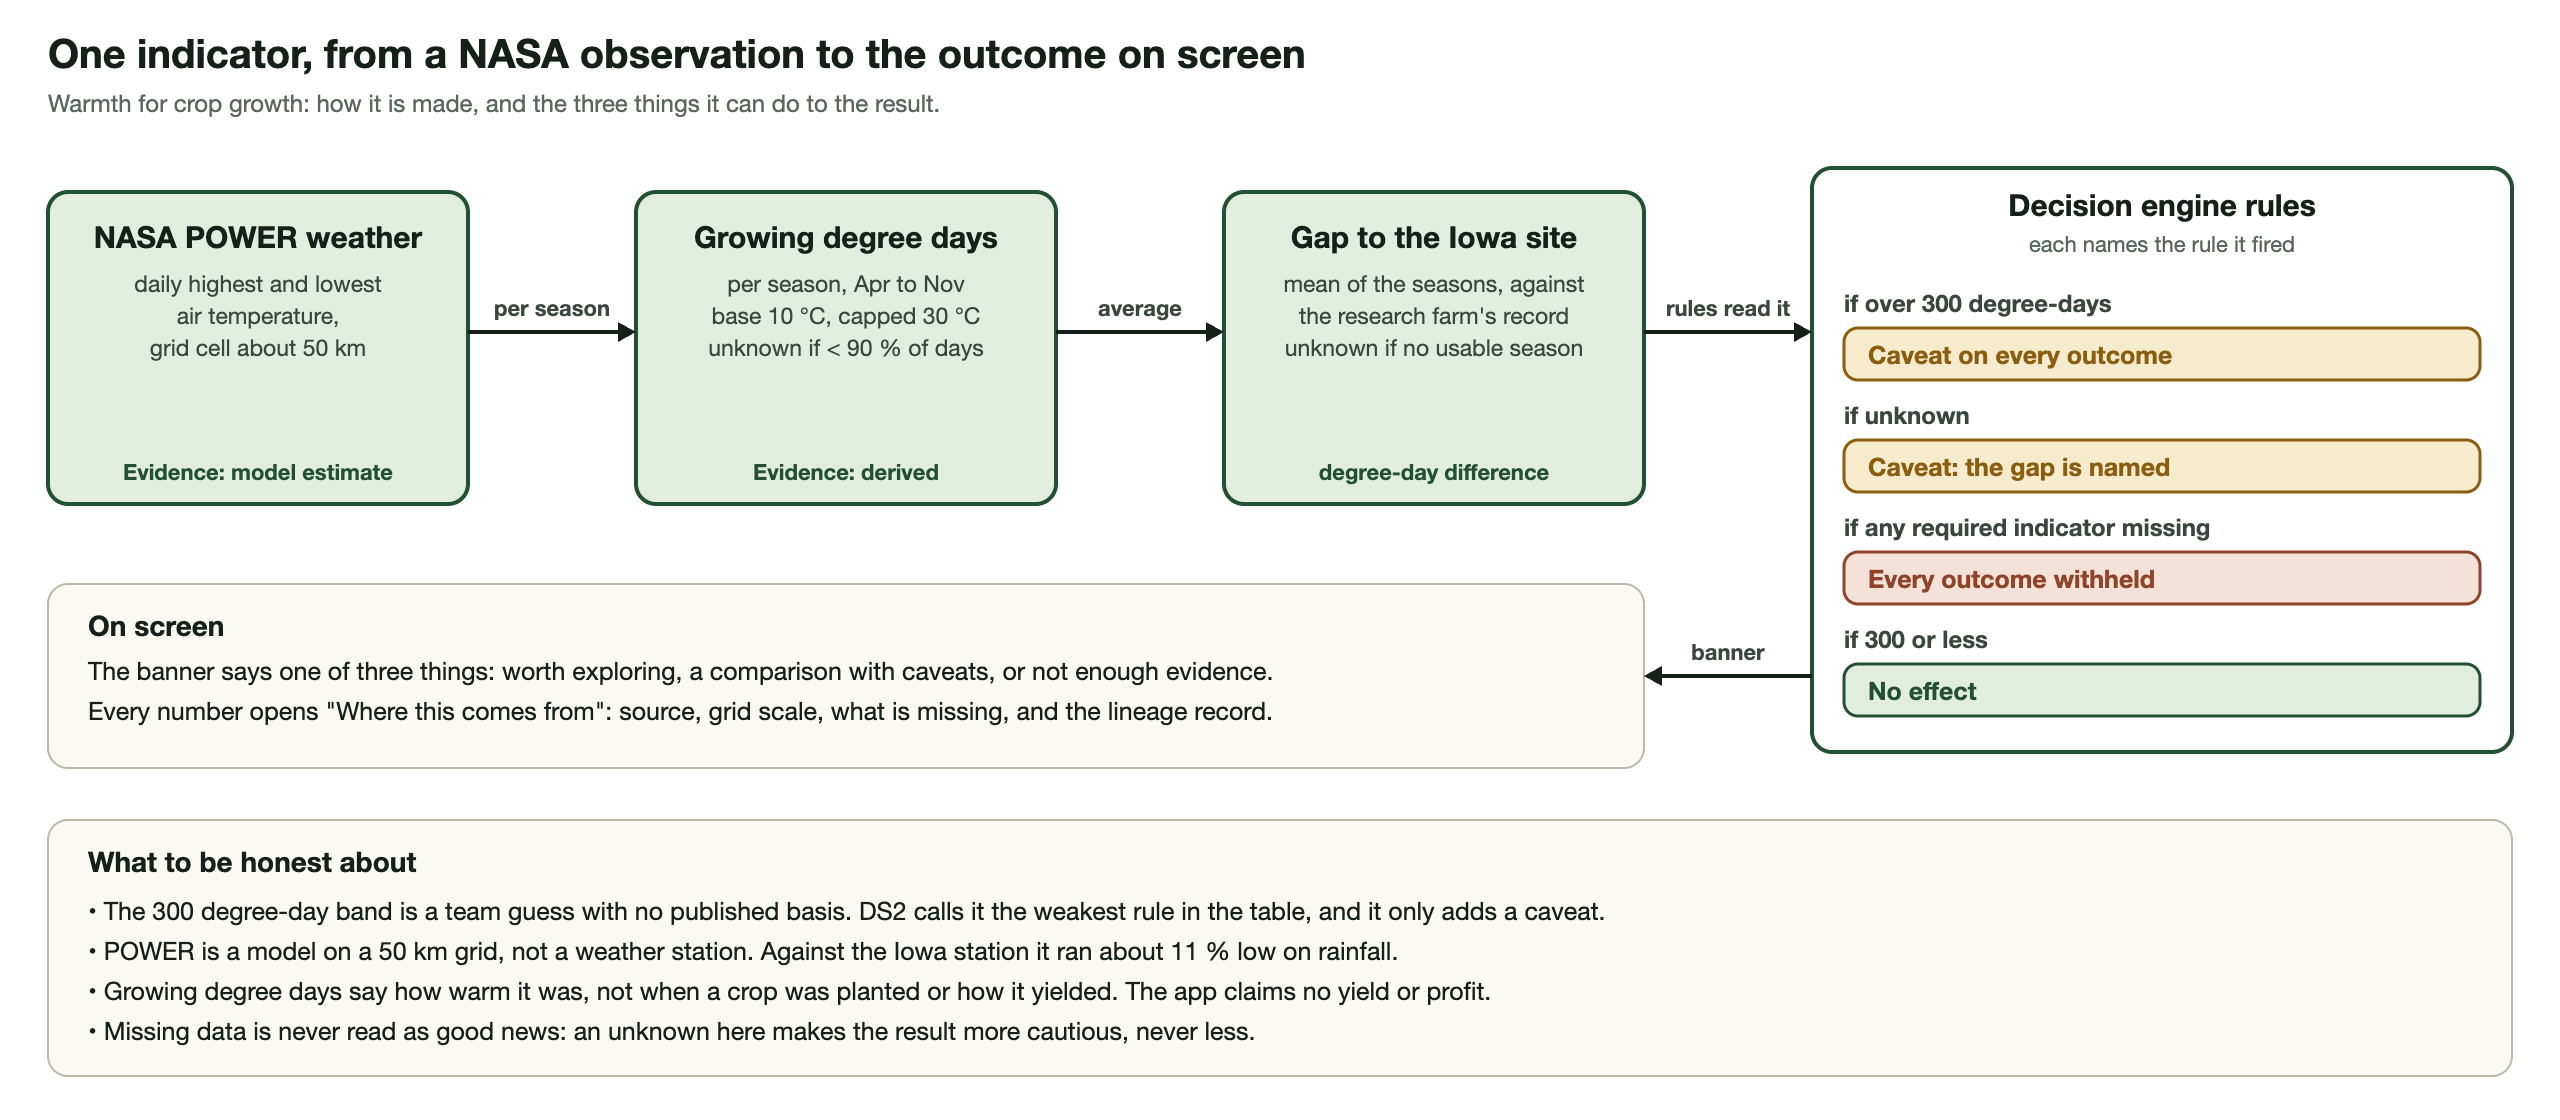
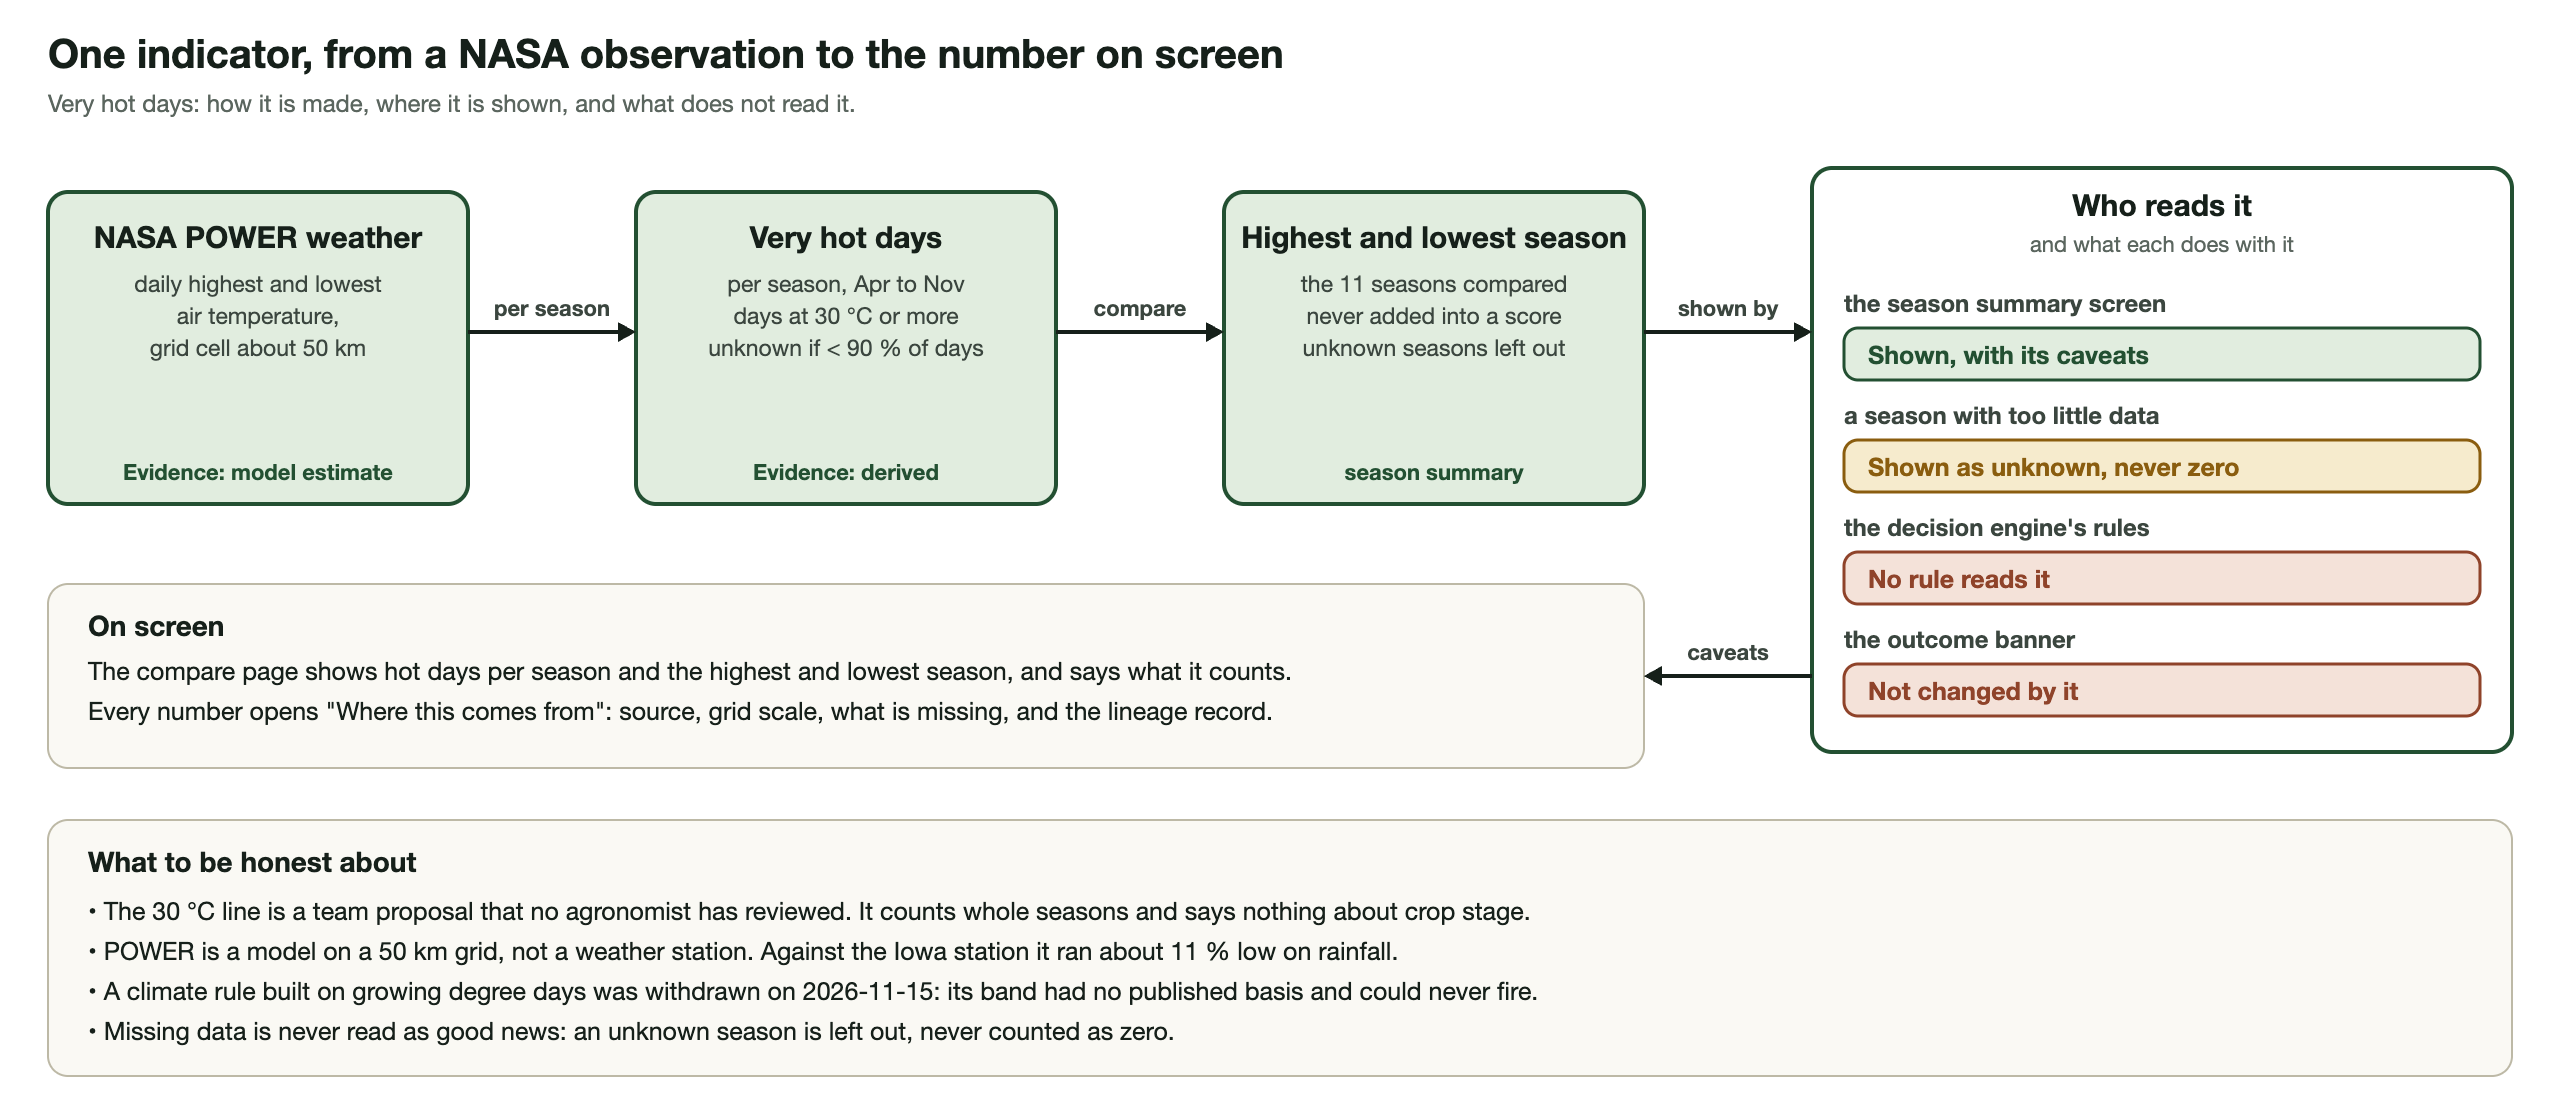
docs: redraw the lineage figure around very hot days, and mark the DS2 validation summary as superseded in part

diff --git a/docs/diagrams/build.py b/docs/diagrams/build.py
@@ -141,54 +141,53 @@ def lineage() -> Svg:
     svg = Svg(
         1280,
         560,
-        "From a NASA observation to the outcome on screen",
-        "One indicator traced end to end: NASA POWER daily temperatures become growing degree days, then a "
-        "difference from the Iowa trial site, which the decision engine's rules turn into either no effect, a "
-        "caveat on every outcome, or withholding every outcome.",
+        "From a NASA observation to the number on screen",
+        "One indicator traced end to end: NASA POWER daily highest temperatures become a count of very hot "
+        "days per season, which the season summary shows with its caveats. No decision engine rule reads it.",
     )
-    svg.text(24, 34, "One indicator, from a NASA observation to the outcome on screen", size=20, weight=700)
-    svg.text(24, 56, "Warmth for crop growth: how it is made, and the three things it can do to the result.", size=12, fill=FAINT)
+    svg.text(24, 34, "One indicator, from a NASA observation to the number on screen", size=20, weight=700)
+    svg.text(24, 56, "Very hot days: how it is made, where it is shown, and what does not read it.", size=12, fill=FAINT)
 
     y, h = 96, 156
     stage(svg, 24, y, 210, h, "NASA POWER weather", ["daily highest and lowest", "air temperature,", "grid cell about 50 km"], "built", note="Evidence: model estimate")
-    stage(svg, 318, y, 210, h, "Growing degree days", ["per season, Apr to Nov", "base 10 °C, capped 30 °C", "unknown if < 90 % of days"], "built", note="Evidence: derived")
-    stage(svg, 612, y, 210, h, "Gap to the Iowa site", ["mean of the seasons, against", "the research farm's record", "unknown if no usable season"], "built", note="degree-day difference")
+    stage(svg, 318, y, 210, h, "Very hot days", ["per season, Apr to Nov", "days at 30 °C or more", "unknown if < 90 % of days"], "built", note="Evidence: derived")
+    stage(svg, 612, y, 210, h, "Highest and lowest season", ["the 11 seasons compared", "never added into a score", "unknown seasons left out"], "built", note="season summary")
     mid = y + 70
     svg.arrow(234, mid, 318, mid, "per season")
-    svg.arrow(528, mid, 612, mid, "average")
+    svg.arrow(528, mid, 612, mid, "compare")
 
-    # The engine's rules.
+    # Who reads it.
     rx, rw = 906, 350
     svg.box(rx, y - 12, rw, 292, BUILT, "#ffffff", width=2)
-    svg.text(rx + rw / 2, y + 12, "Decision engine rules", size=15, weight=700, anchor="middle")
-    svg.text(rx + rw / 2, y + 30, "each names the rule it fired", size=11, fill=FAINT, anchor="middle")
+    svg.text(rx + rw / 2, y + 12, "Who reads it", size=15, weight=700, anchor="middle")
+    svg.text(rx + rw / 2, y + 30, "and what each does with it", size=11, fill=FAINT, anchor="middle")
     rows = [
-        ("over 300 degree-days", "Caveat on every outcome", PARTLY, PARTLY_FILL),
-        ("unknown", "Caveat: the gap is named", PARTLY, PARTLY_FILL),
-        ("any required indicator missing", "Every outcome withheld", NOT, NOT_FILL),
-        ("300 or less", "No effect", BUILT, BUILT_FILL),
+        ("the season summary screen", "Shown, with its caveats", BUILT, BUILT_FILL),
+        ("a season with too little data", "Shown as unknown, never zero", PARTLY, PARTLY_FILL),
+        ("the decision engine's rules", "No rule reads it", NOT, NOT_FILL),
+        ("the outcome banner", "Not changed by it", NOT, NOT_FILL),
     ]
     for i, (condition, effect, stroke, fill) in enumerate(rows):
         ry = y + 46 + i * 56
-        svg.text(rx + 16, ry + 14, "if " + condition, size=12, weight=600, fill=SOFT)
+        svg.text(rx + 16, ry + 14, condition, size=12, weight=600, fill=SOFT)
         svg.box(rx + 16, ry + 22, rw - 32, 26, stroke, fill, radius=7, width=1.5)
         svg.text(rx + 28, ry + 40, effect, size=12.5, weight=700, fill=stroke)
-    svg.arrow(822, mid, 906, mid, "rules read it")
+    svg.arrow(822, mid, 906, mid, "shown by")
 
     # What the reader sees.
     svg.box(24, 292, 798, 92, "#bdb9a6", "#faf9f4", radius=10, width=1)
     svg.text(44, 318, "On screen", size=14, weight=700)
-    svg.text(44, 340, "The banner says one of three things: worth exploring, a comparison with caveats, or not enough evidence.", size=12.5)
+    svg.text(44, 340, "The compare page shows hot days per season and the highest and lowest season, and says what it counts.", size=12.5)
     svg.text(44, 360, "Every number opens \"Where this comes from\": source, grid scale, what is missing, and the lineage record.", size=12.5)
-    svg.arrow_left(rx, 338, 822, 338, "banner", label_dy=-8)
+    svg.arrow_left(rx, 338, 822, 338, "caveats", label_dy=-8)
 
     svg.box(24, 410, 1232, 128, "#bdb9a6", "#faf9f4", radius=10, width=1)
     svg.text(44, 436, "What to be honest about", size=14, weight=700)
     notes = [
-        "The 300 degree-day band is a team guess with no published basis. DS2 calls it the weakest rule in the table, and it only adds a caveat.",
+        "The 30 °C line is a team proposal that no agronomist has reviewed. It counts whole seasons and says nothing about crop stage.",
         "POWER is a model on a 50 km grid, not a weather station. Against the Iowa station it ran about 11 % low on rainfall.",
-        "Growing degree days say how warm it was, not when a crop was planted or how it yielded. The app claims no yield or profit.",
-        "Missing data is never read as good news: an unknown here makes the result more cautious, never less.",
+        "A climate rule built on growing degree days was withdrawn on 2026-11-15: its band had no published basis and could never fire.",
+        "Missing data is never read as good news: an unknown season is left out, never counted as zero.",
     ]
     for i, line in enumerate(notes):
         svg.text(44, 460 + i * 20, "•  " + line, size=12.5, fill=INK)

diff --git a/docs/diagrams/README.md b/docs/diagrams/README.md
@@ -6,7 +6,7 @@ Two figures for slide 4 of the deck (architecture and data lineage, `PRD.md` §1
 | ----------------------------------------------- | ----------------------------------------------------------------------------------------------------------------------------------------------------------------------------------------------------------------- |
 | [`architecture.png`](architecture.png)                         | Where the data goes from NASA and USDA sources to the screen, and **which parts are built and which are not**                                                                                                     |
 | [`backend-architecture.svg`](backend-architecture.svg) / `.png` | How the FastAPI backend serves a request, layer by layer (middleware, routes, core logic and the decision engine, data access, ClickHouse, S3 and Claude), how it is deployed, and **which parts are merged, in an open pull request, or not built** |
-| [`lineage.svg`](lineage.svg) / `.png`           | One indicator traced end to end: a NASA observation becomes growing degree days, then a gap to the Iowa trial site, which the decision engine's rules turn into no effect, a caveat, or withholding every outcome |
+| [`lineage.svg`](lineage.svg) / `.png`           | One indicator traced end to end: NASA daily temperatures become a count of very hot days per season, which the season summary shows with its caveats. No decision engine rule reads it |
 
 The SVGs are vector (use them in the deck if it takes SVG); the PNGs are 2560 px wide for slides.
 
@@ -27,11 +27,9 @@ Status comes from `specs/roadmap.md` as of 2026-11-15:
 To change a status, edit `build.py`, re-run, and re-export the PNGs:
 
 ```bash
-python3 docs/diagrams/build.py
-for n in architecture lineage; do
-  chrome --headless=new --hide-scrollbars --force-device-scale-factor=2 --window-size=1280,560 \
-    --screenshot="docs/diagrams/$n.png" "file://$PWD/docs/diagrams/$n.svg"
-done
+python3 docs/diagrams/build.py        # also rewrites architecture.svg; delete it, architecture.png is maintained by hand
+chrome --headless=new --hide-scrollbars --force-device-scale-factor=2 --window-size=1280,560 \
+  --screenshot="docs/diagrams/lineage.png" "file://$PWD/docs/diagrams/lineage.svg"
 # The backend diagram is taller and wider:
 chrome --headless=new --hide-scrollbars --force-device-scale-factor=2 --window-size=1400,1130 \
   --screenshot="docs/diagrams/backend-architecture.png" "file://$PWD/docs/diagrams/backend-architecture.svg"
@@ -41,6 +39,6 @@ chrome --headless=new --hide-scrollbars --force-device-scale-factor=2 --window-s
 
 ## Accuracy notes
 
-- The lineage figure uses the real rule numbers from `engine/rules/strategy_rules.py` (300 degree-days; unknown; a missing required indicator) and the real indicator definition from `transform/indicators/climate.py` (base 10 °C, cap 30 °C, 90 % valid-day threshold). If those change, edit `lineage()` in `build.py`.
+- The lineage figure traces very hot days (`transform/indicators/climate.py`: 30 °C or more, 90 % valid-day threshold) and the season summary that shows it (`api/core/season_summary.py`). It shows that no engine rule reads the indicator. It used to trace growing degree days into a 300 degree-day climate rule; that rule was withdrawn on 2026-11-15 (see `engine/rules/strategy_rules.py`, section 6). If a rule starts reading a climate indicator, redraw `lineage()` in `build.py`.
 - The "11 % low" rainfall figure is DS2's own comparison with the Iowa station record (`docs/sources/ds2-first-pull-review-2026-11-14.md`).
 - Do not describe this as a validated pipeline. `docs/demo/README.md` and the validation page say what has and has not been checked.

diff --git a/docs/validation/ds2-validation-summary-2026-11-15.md b/docs/validation/ds2-validation-summary-2026-11-15.md
@@ -12,6 +12,19 @@ They are indicative, not statistically strong. No percentage of accuracy, no sig
 field-years are not treated as independent samples, because pixels within a field are correlated and the same
 field appears in eleven seasons.
 
+> **Superseded in part (added when the READMEs were updated).** This is DS2's record as written on 15 November
+> for rules version `2026-11-15.2`, and it is kept as written. Two things have changed since:
+>
+> - The climate rule `applicability_climate_distance_gdd` (300 degree-days), listed in section 2 as never firing,
+>   was **withdrawn**, and two machinery rules for Strategy C were added. The rules version is now
+>   `2026-11-15.5`, with 14 applicability rules.
+> - The sweep now gives **26 worth exploring and 19 abstaining** with every constraint stated, and **26
+>   qualified comparisons and 19 abstentions** with no manure or nothing stated. Six of the 14 rules never fire.
+>   The tables in section 1 (27 and 18) and the list in section 2 describe the earlier version.
+>
+> Re-run `uv run python -m engine.sweep` for the current figures. The validation matrix
+> (`engine/tests/test_validation_matrix.py`) has not yet been signed off by DS1 or the backend engineer.
+
 ---
 
 ## 1. The decision engine over the whole test set
